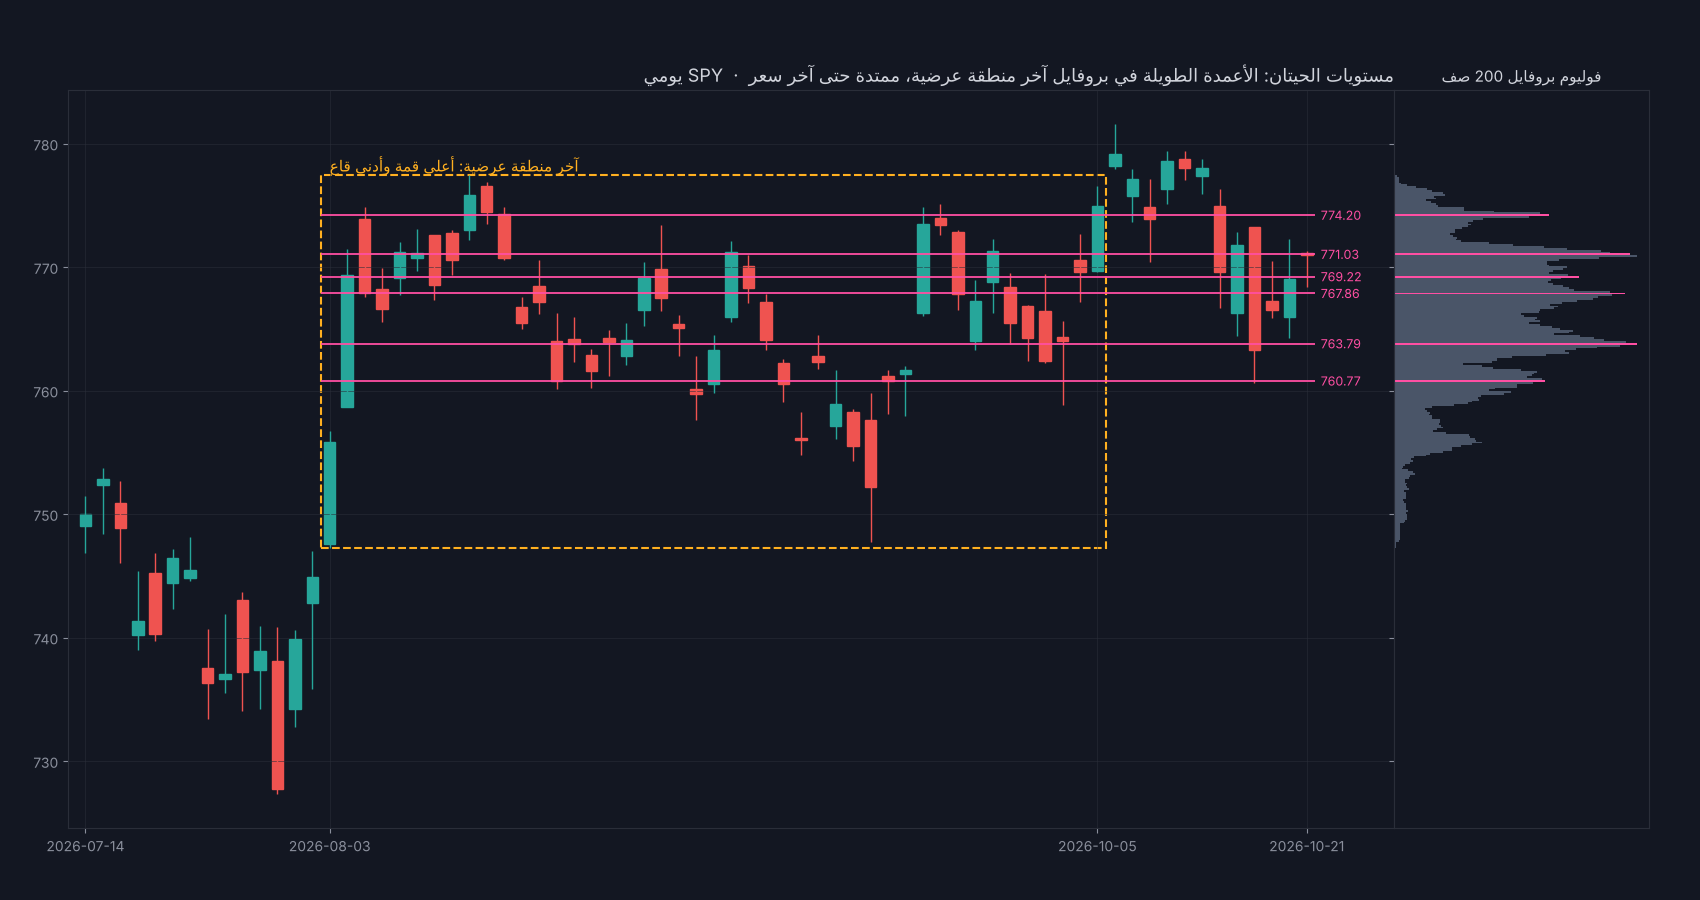
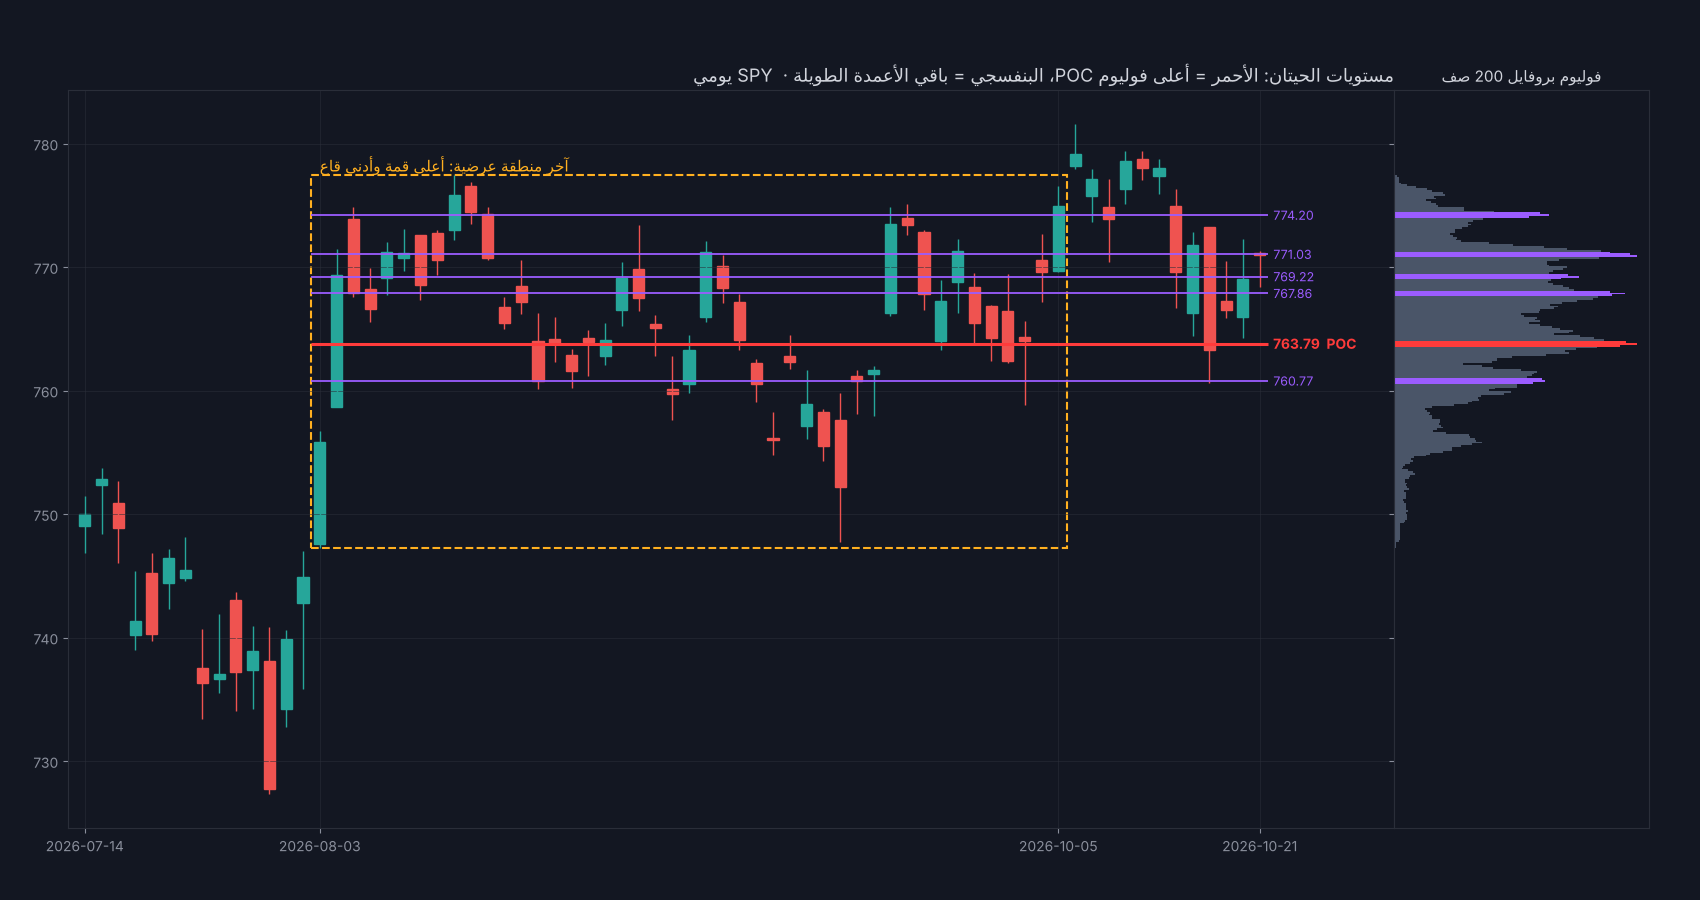
Whale levels image: POC red, other tall columns purple
Claude-Session: https://claude.ai/code/session_01LqVdPjKMY9JTEX1zUaxwh2

diff --git a/reports/make_whale_levels_image.py b/reports/make_whale_levels_image.py
@@ -23,12 +23,21 @@ for i, r in enumerate(w.itertuples()):
     cc = UP if r.close >= r.open else DN
     ax.vlines(i, r.low, r.high, color=cc, lw=1)
     ax.add_patch(Rectangle((i - .33, min(r.open, r.close)), .66, max(abs(r.close - r.open), 1e-3), color=cc))
-for k, L in enumerate(sorted(peaks)):
-    ax.hlines(L, i0 - .5, len(w) - .5, color="#ff4fa3", lw=1.3)
-    ax.text(len(w) - .4, L, f" {L:.2f}", color="#ff4fa3", fontsize=9, va="center")
+POC_C, OTH_C = "#ff3b3b", "#9b5cff"
+poc = cen[int(np.argmax(prof))]
+for L in sorted(peaks):
+    isp = abs(L - poc) <= (cen[1] - cen[0]) * 3
+    col = POC_C if isp else OTH_C
+    ax.hlines(L, i0 - .5, len(w) - .5, color=col, lw=2.2 if isp else 1.3, zorder=4)
+    ax.text(len(w) - .4, L, f" {L:.2f}" + ("  POC" if isp else ""), color=col, fontsize=10 if isp else 9, va="center", weight="bold" if isp else None)
 hb = cen[1] - cen[0]; mx = prof.max()
-ap.barh(cen, prof / mx, height=hb, color=["#ff4fa3" if np.isclose(cc_, peaks).any() else "#4a5568" for cc_ in cen])
+pk_idx = {int(np.argmin(np.abs(cen - L))) for L in peaks}; poc_i = int(np.argmax(prof))
+cols_ = ["#4a5568"] * len(cen)
+for k in pk_idx:
+    for q in range(max(0, k - 1), min(len(cen), k + 2)): cols_[q] = OTH_C
+for q in range(max(0, poc_i - 1), min(len(cen), poc_i + 2)): cols_[q] = POC_C
+ap.barh(cen, prof / mx, height=hb, color=cols_)
 ap.set_xticks([]); ap.tick_params(labelleft=False); ap.set_title("فوليوم بروفايل 200 صف", color=TX, fontsize=11)
-ax.set_xlim(-1, len(w) + 4); ax.set_xticks([0, i0, i1, len(w) - 1]); ax.set_xticklabels([f"{w.index[j]:%Y-%m-%d}" for j in (0, i0, i1, len(w) - 1)], color=MUT)
-ax.set_title("مستويات الحيتان: الأعمدة الطويلة في بروفايل آخر منطقة عرضية، ممتدة حتى آخر سعر  ·  SPY يومي", color=TX, fontsize=13, loc="right")
+ax.set_xlim(-1, len(w) + 7); ax.set_xticks([0, i0, i1, len(w) - 1]); ax.set_xticklabels([f"{w.index[j]:%Y-%m-%d}" for j in (0, i0, i1, len(w) - 1)], color=MUT)
+ax.set_title("مستويات الحيتان: الأحمر = أعلى فوليوم POC، البنفسجي = باقي الأعمدة الطويلة ·  SPY يومي", color=TX, fontsize=13, loc="right")
 fig.savefig(ROOT / "reports/styles/O_whale_levels.png", dpi=100, facecolor=BG); print("ok", s, e, len(peaks))
